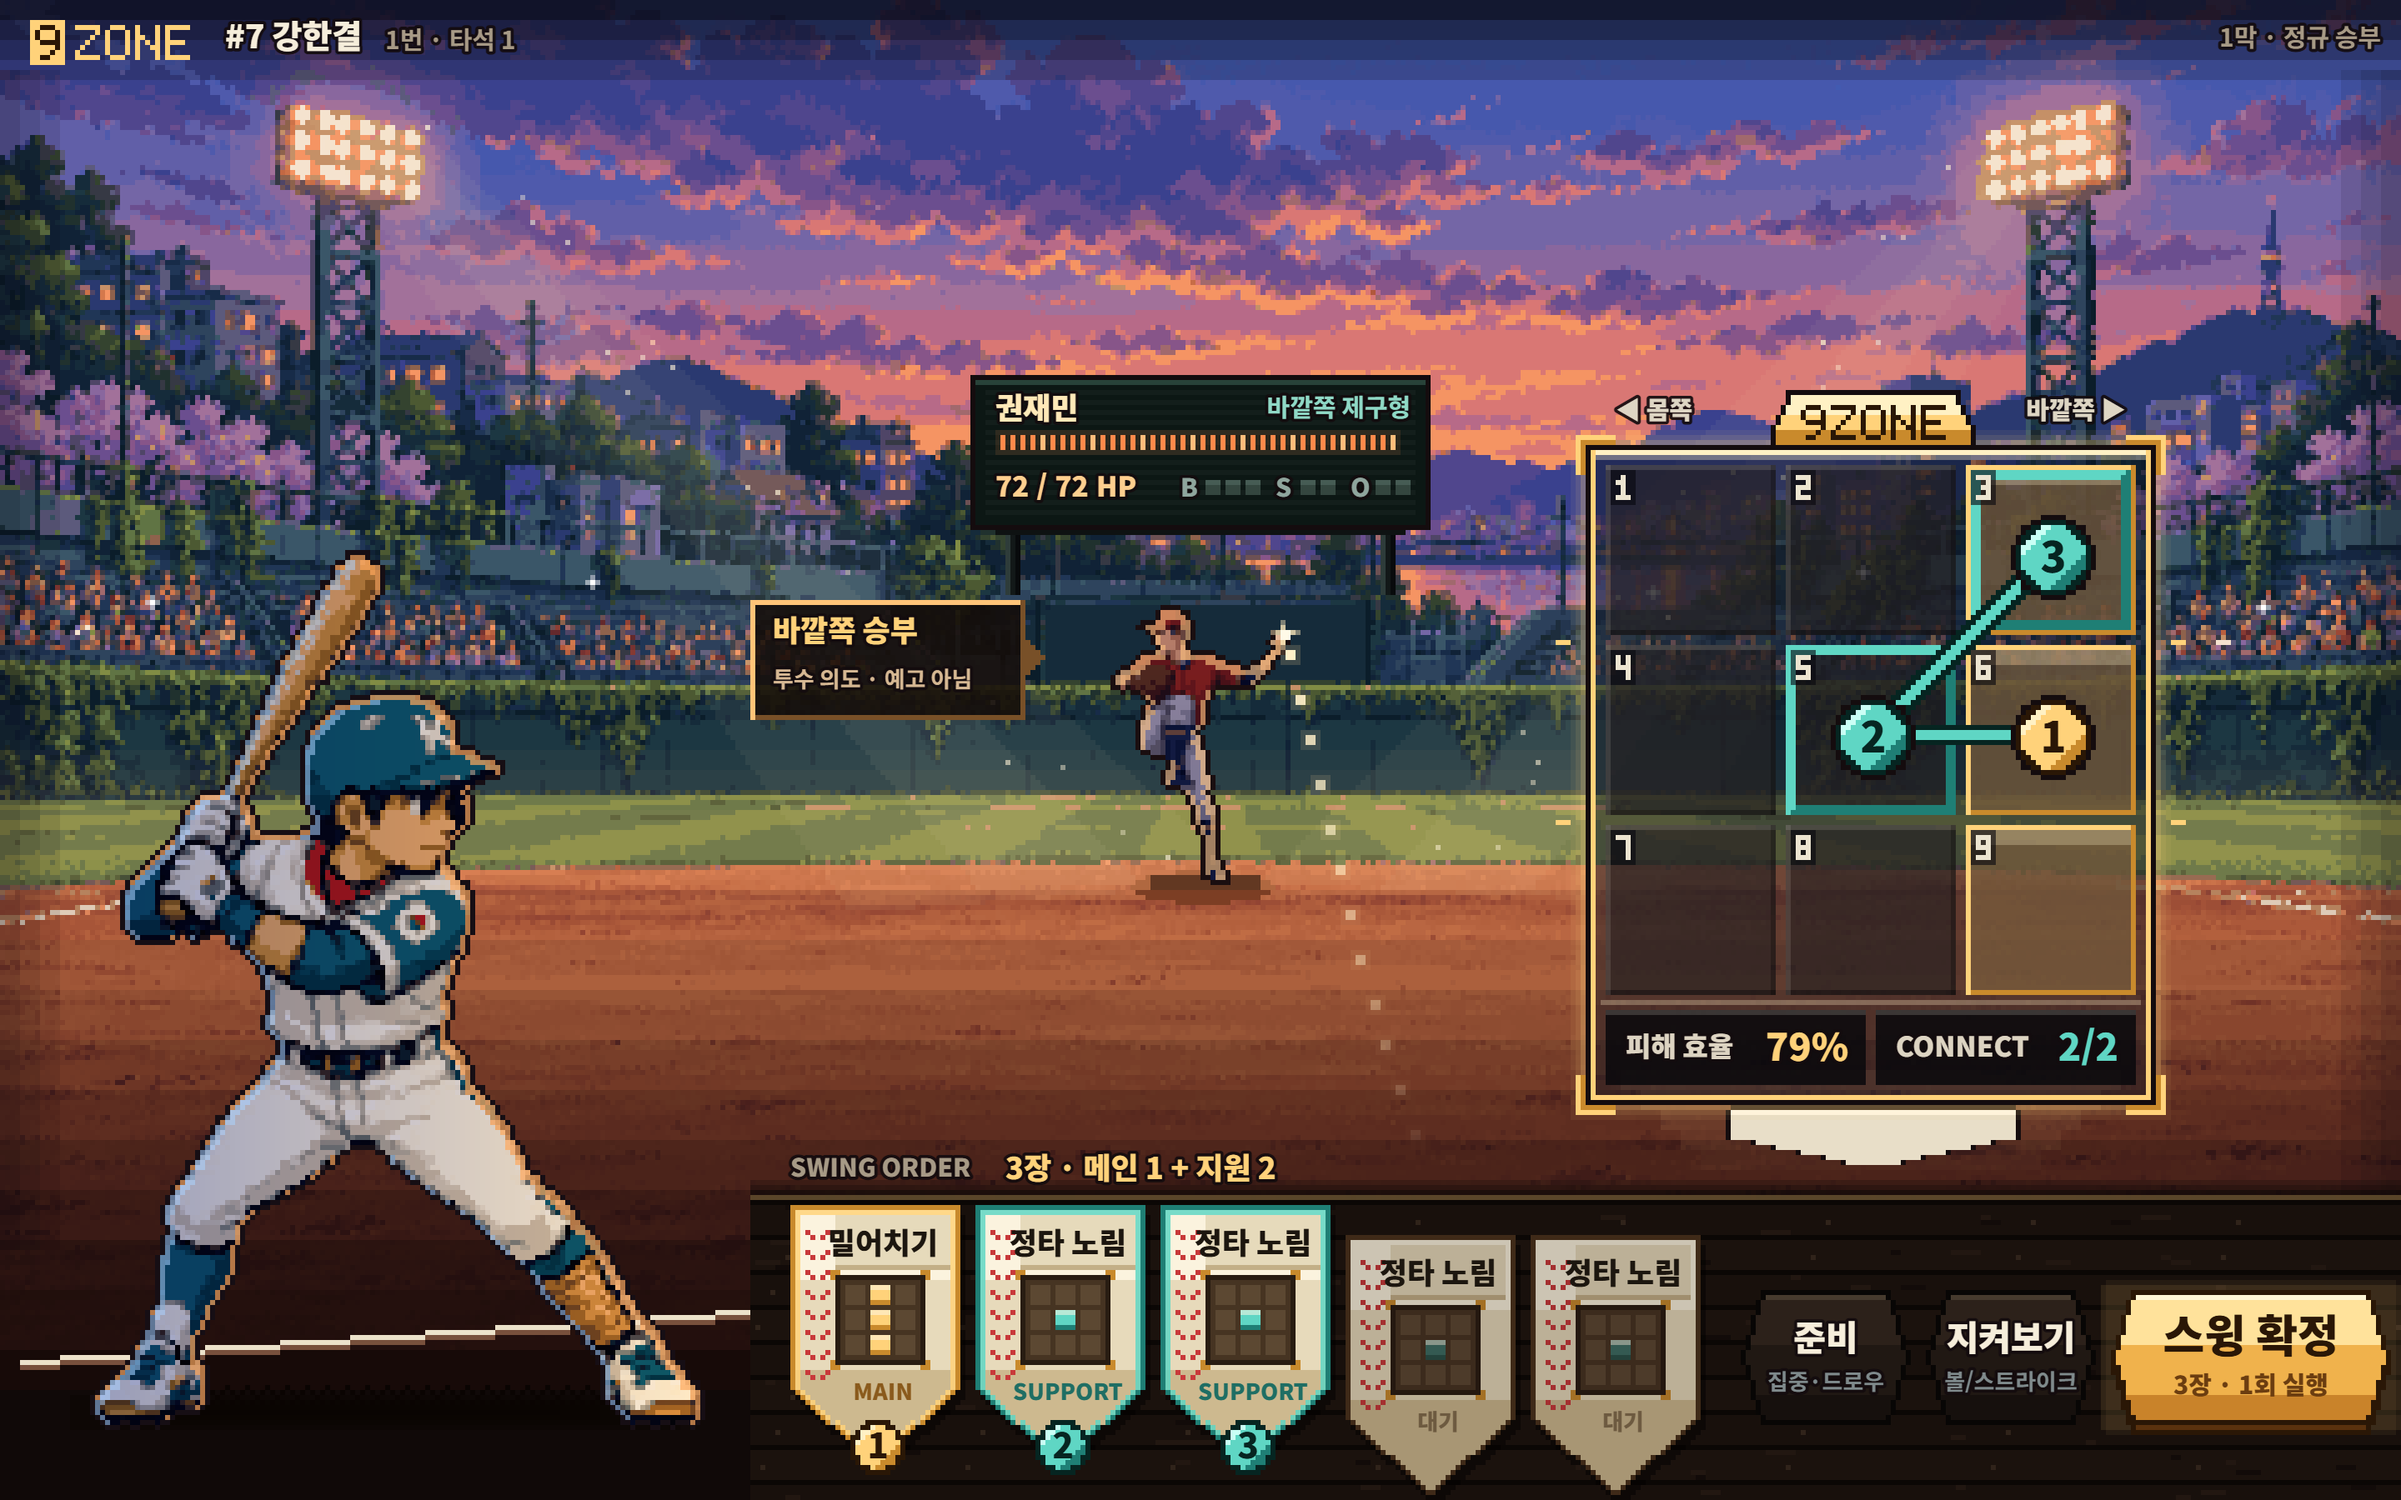
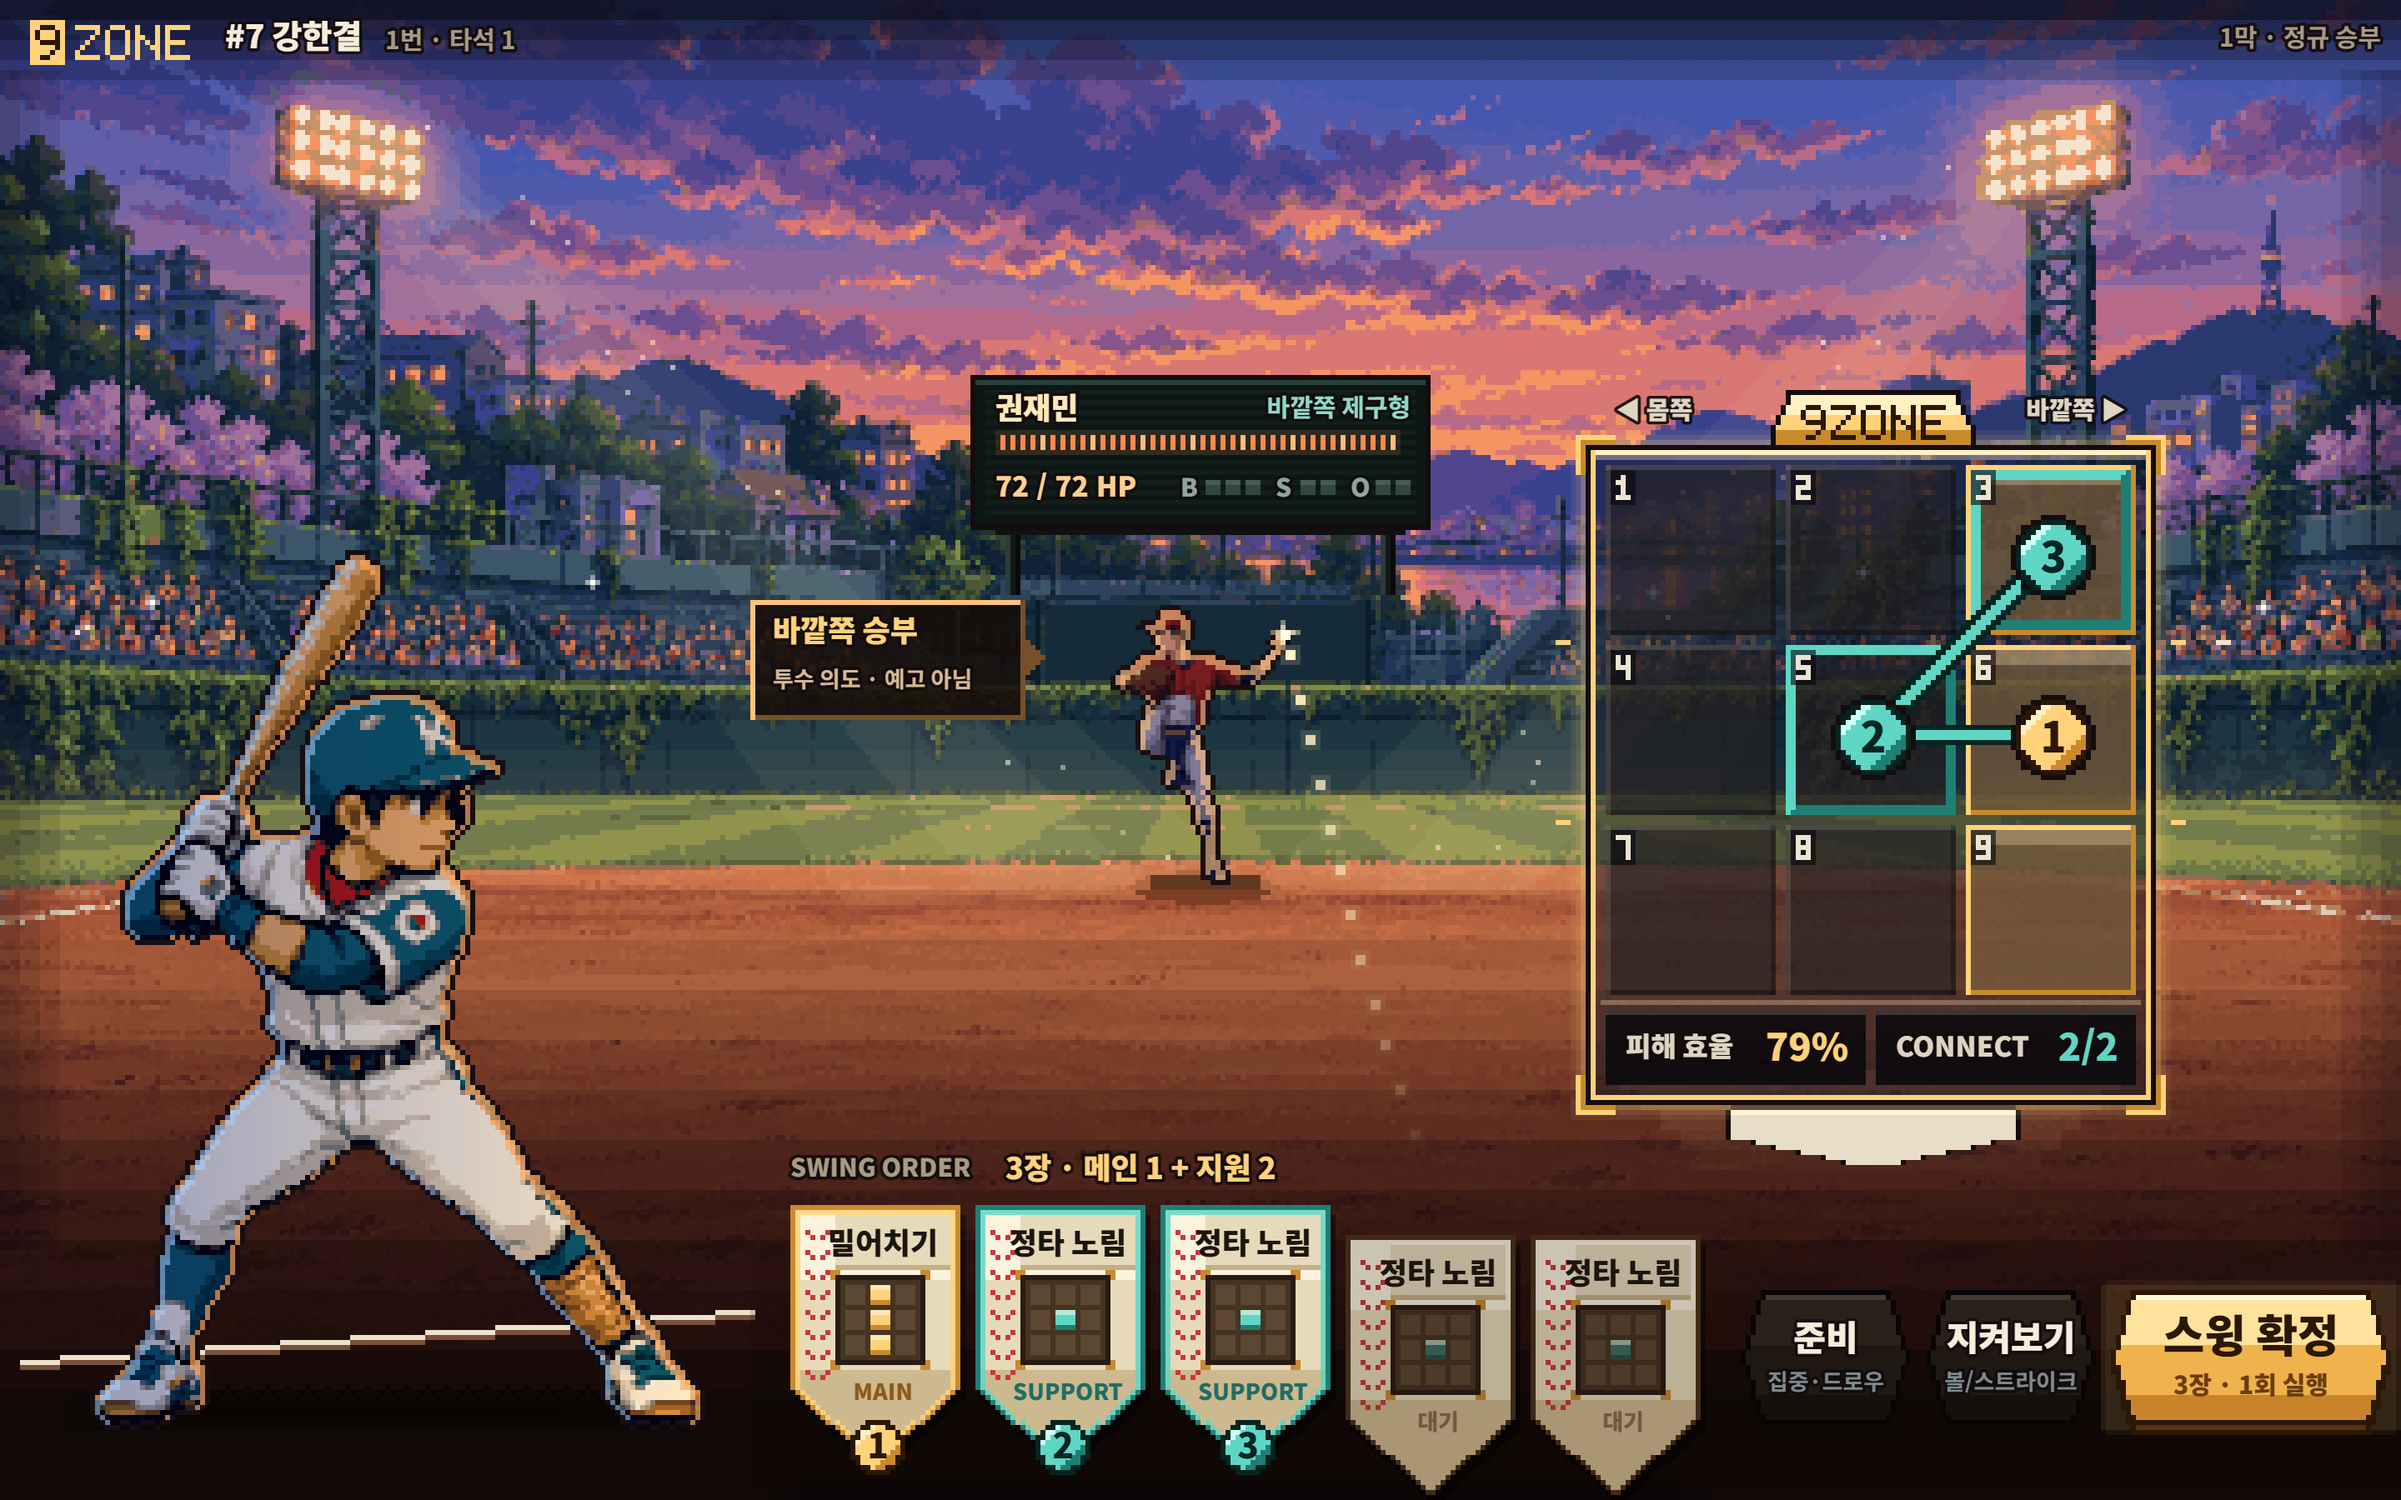
design(v12): LOOP 11 — desktop hand lies on the clay, no tray
The third review's last code point: desktop read as a scene plus a bottom
tray. The planks are gone; the hand and actions sit on the infield clay in
the zone's light with their own shadows, so the screen is one frame. 1440x900
capture read directly.

Changed region(s): [[0.3125, 0.7778, 1.0, 0.8711]]

diff --git a/docs/design/v12/gm/scene-desktop.js b/docs/design/v12/gm/scene-desktop.js
@@ -29,9 +29,9 @@ GM.intent({x:150,y:120,w:55,h:24},{pointer:'right'});
 GM.zone({x:318,y:90,cell:34,glass:3});
 
 // 5. hand + actions on the dugout rail along the bottom
-for(let k=0;k<4;k++)K.wash(150,236+k*1,330,1,[12,7,6],.25+k*.2);
-GM.planks(150,240,330,60);
-K.rect(150,239,330,1,[255,210,122],.3);
+// no tray: the hand lies on the clay in the zone's light, each card casting its own shadow
+for(let k=0;k<6;k++)K.wash(150,244+k*9,330,9,[16,8,5],.06+k*.05);
+for(let r=0;r<3;r++)K.wash(154+r*6,300-5+r,188-r*12,5-r,[8,4,2],.25);
 GM.handLabel(158,231);
 GM.handOrdered().forEach((h,i)=>GM.card(h,158+i*37,247,{w:34}));
 GM.buttons({x:348,y:258,small:34,gapX:3,goW:56});

diff --git a/docs/design/v12/gm/README.md b/docs/design/v12/gm/README.md
@@ -81,7 +81,8 @@
 | 7 | `b62b501` | 1차 독립 리뷰 반영: 역광 투수, 타자 등 림라이트, 가로 전면 배경, PC 타자 접지 |
 | 8 | `6ad5bbb` | 2차 리뷰 반영: 손패를 스윙 순서로, 공 궤적 강화, 칸 번호 축소 |
 | 9 | `c770ab9` | 타자를 원본 픽셀 정확히 2배로 맞춰 덩어리 균일화 |
-| 10 | (이 커밋) | 3차 리뷰 반영: PC 홈플레이트 복구, 가로 카드-존 간격, 짙은 존 유리, 선명한 노을 림, PC 접지 그림자 |
+| 10 | `c5b5b92` | 3차 리뷰 반영: PC 홈플레이트 복구, 가로 카드-존 간격, 짙은 존 유리, 선명한 노을 림, PC 접지 그림자 |
+| 11 | (이 커밋) | PC 하단 트레이 제거: 카드·버튼이 존의 빛 속 흙 위에 직접 놓여 장면과 UI가 하나로 이어짐 |
 
 독립 리뷰(에이전트, §11 12항목): 1차 3 통과 / 6 약함 / 3 실패 → 2차 6 / 5 / 1 → 3차 6 / 4 / 2(빛 방향·밀도, 모두 원화 한계). 3차 리뷰 결론: 코드만으로 더 돌려도 판정은 크게 바뀌지 않는다.
 
